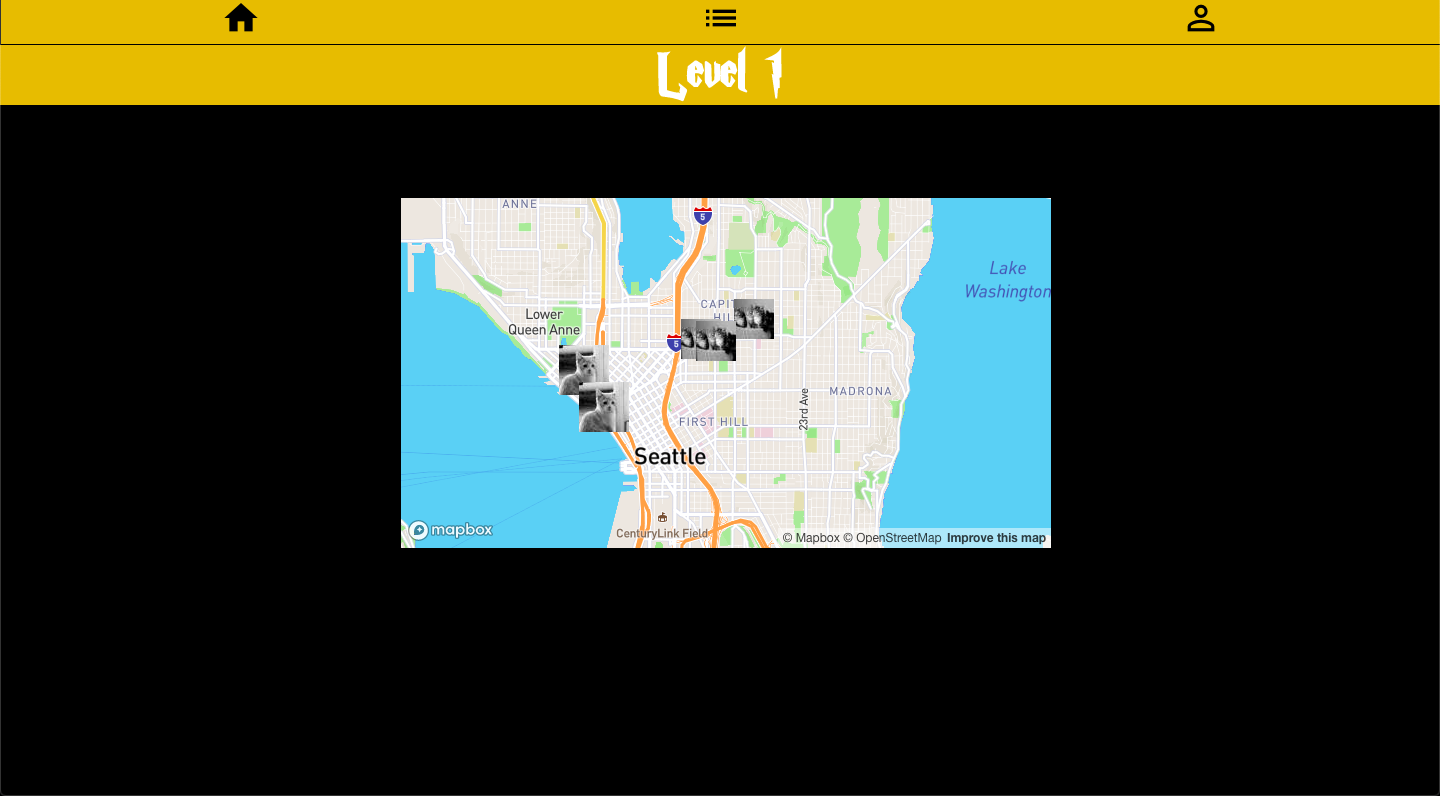
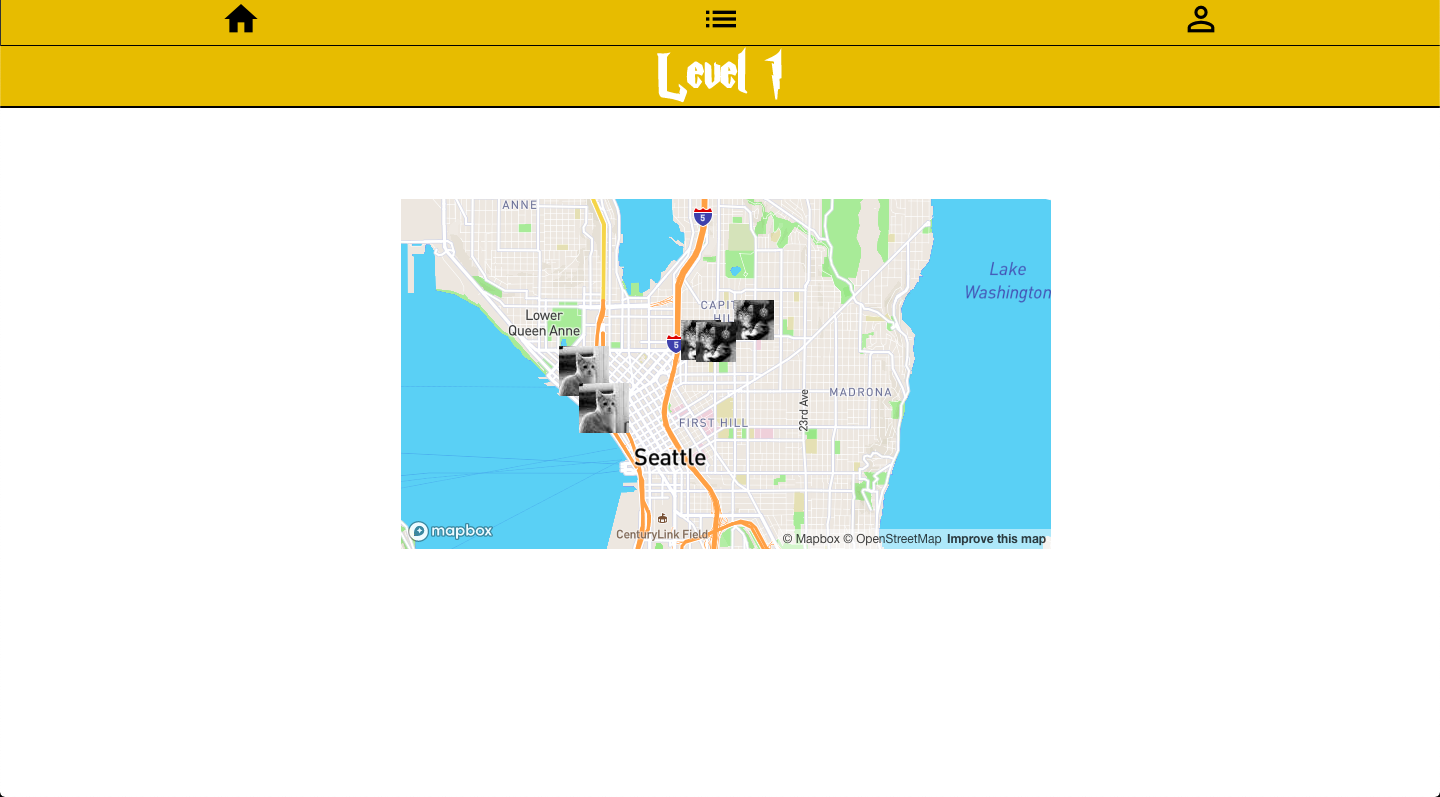
More CSS

diff --git a/src/Projects.js b/src/Projects.js
@@ -26,7 +26,6 @@ export default function Projects() {
               <a href="https://github.com/Brandon205/cubeX" rel="noopener-noreferrer">Code</a>
             </div>
           </div>
-          <p>A MERN app that uses GraphQL and Apollo for all of the database calls and manipulations along with React with hooks for the front end. It is a simple app that will allow users to time themselves while solving a Rubik’s cube, it also has many data-analysis features like averages and a graph, for the user to track their times in more visual ways.</p>
         </>
       );
       break;
@@ -92,24 +91,45 @@ export default function Projects() {
           {project1 ? content1 : <img className="project-img" src={cubeX} alt="cubeX home page" /> }
         </div>
         <div className="project1-description">
-          <p>A MERN app that uses GraphQL and Apollo for all of the database calls and manipulations along with React with hooks for the front end. It is a simple app that will allow users to time themselves while solving a Rubik’s cube, it also has many data-analysis features like averages and a graph, for the user to track their times in more visual ways.</p>
+          <section className="frameworks">
+            <p>React</p>
+            <p>GraphQL</p>
+            <p>Node.js</p>
+            <p>Express</p>
+          </section>
+          <p>A MERN app that uses GraphQL and Apollo for all of the database calls and manipulations along with React with hooks for the front end. It is a simple app that will allow users to time themselves while solving a Rubik’s cube, it also has many data-analysis features like averages and a graph, for the user to track their times in more visual ways.</p><br/>
         </div>
         <div className="project2" onMouseEnter={() => setProject2(true)} onMouseLeave={() => setProject2(false)}>
           {project2 ? content2 : <img className="project-img" src={potterGo} alt="Potter Go home page" /> }
         </div>
         <div className="project2-description">
+          <section className="frameworks">
+            <p>React</p>
+            <p>Node.js</p>
+            <p>Express</p>
+          </section>
           <p>A 1 day hackathon project that was made by me and one other developer, along with a group of 3 UX Designers. It is a simplistic MERN app that uses MapBox to place images at certain locations that the user would have to go to. It also reaches out to an external Harry Potter api to get information, like wands, from the Harry Potter series. Our project placed 1st in the hackathon.</p>
         </div>
         <div className="project3" onMouseEnter={() => setProject3(true)} onMouseLeave={() => setProject3(false)}>
           {project3 ? content3 : <img className="project-img" src={adventureAwaits} alt="Adventure Awaits home page" /> }
         </div>
         <div className="project3-description">
+          <section className="frameworks">
+            <p>React</p>
+            <p>Node.js</p>
+            <p>Express</p>
+          </section>
           <p>A MongoDB, Express, React, Node.js (MERN) app, that was created by a team of developers. Using React for the front end made the website very quick and responsive, while on the backend Node, Express, and MongoDB handle a JWT authentication system along with that will allow for users to have their own secure accounts.</p>
         </div>
         <div className="project4" onMouseEnter={() => setProject4(true)} onMouseLeave={() => setProject4(false)}>
           {project4 ? content4 : (<img className="project-img" src={trailWeather} alt="Trail Weather home page" />) }
         </div>
         <div className="project4-description">
+          <section className="frameworks">
+            <p>EJS</p>
+            <p>Node.js</p>
+            <p>Express</p>
+          </section>
           <p>A full stack web app that is used to help plan your hikes more accordingly with the weather. This app uses HTML, a templating language called EJS, CSS, and Javascript to lay out the foundation along with a database and 3 APIs including Mapbox and the DarkSky API to provide information to the user about any weather or hike information they need.</p>
         </div>
       </main>

diff --git a/src/App.css b/src/App.css
@@ -4,13 +4,23 @@
 }
 
 main {
-  text-align: center;
   background-color: #2F2F2F;
   padding: 15px 0 15px 0;
 }
 
 header {
-  background-color: rgba(75, 75, 75, 0.541);
+  background-image: url(./img/conifer-daylight-evergreen-forest-23381.jpg);
+  height: 100vh;
+  background-size: cover;
+  display: flex;
+  justify-content: center;
+  align-items: center;
+}
+
+header div {
+  width: 100vw;
+  background-color: rgba(128, 128, 128, 0.596);
+  padding: 15px auto;
 }
 
 nav {
@@ -28,6 +38,13 @@ nav a {
 
 nav a:hover {
   color: rgb(49, 49, 49);
+}
+
+hr {
+  background-color: black;
+  width: 75%;
+  height: 2px;
+  margin: 0 auto;
 }
 
 .mobile {
@@ -58,6 +75,10 @@ nav a:hover {
 
 .App {
   text-align: center;
+}
+
+.name {
+  font-size: 3em;
 }
 
 /*                                           PROJECTS CSS                                            */
@@ -101,7 +122,7 @@ nav a:hover {
   grid-area: img4;
 }
 
-.project-container div {
+.project1, .project2, .project3, .project4 {
   display: flex;
   justify-content: space-around;
 }
@@ -135,12 +156,15 @@ nav a:hover {
 .project1-description {
   grid-area: desc1;
 }
+
 .project2-description {
   grid-area: desc2;
 }
+
 .project3-description {
   grid-area: desc3;
 }
+
 .project4-description {
   grid-area: desc4;
 }
@@ -154,6 +178,7 @@ nav a:hover {
   border: 2px solid black;
   border-radius: 10px;
   padding: 2px;
+  margin: 15px auto;
 }
 
 .button:hover {
@@ -166,12 +191,32 @@ nav a:hover {
   font-size: 1.1em;
 }
 
-/*                                           WHOIAM/SKILLS CSS                                      */
+.frameworks {
+  max-height: 50px;
+  margin: 10px auto 15px auto;
+  overflow-wrap: normal;
+}
+
+.frameworks p {
+  margin: 0 5px;
+  display: inline;
+  border: 2px solid black;
+  border-radius: 15px;
+  background-color: tomato;
+  padding: 5px;
+}
+
+.frameworks p:hover {
+  background-color: rgb(204, 77, 55);
+  cursor: pointer;
+}
+
+/*                                           SKILLS CSS                                             */
 .skills {
   text-align: center;
   background-color: rgb(165, 165, 165);
   border-radius: 15px;
-  box-shadow: 5px 7px 10px gray;
+  box-shadow: 0 7px 10px gray;
   width: 85vw;
   margin: 25px auto 15px auto;
 }
@@ -194,27 +239,21 @@ nav a:hover {
   from {
     transform: scale3d(1, 1, 1);
   }
-
   30% {
     transform: scale3d(1.25, 0.75, 1);
   }
-
   40% {
     transform: scale3d(0.75, 1.25, 1);
   }
-
   50% {
     transform: scale3d(1.15, 0.85, 1);
   }
-
   65% {
     transform: scale3d(.95, 1.05, 1);
   }
-
   75% {
     transform: scale3d(1.05, .95, 1);
   }
-
   to {
     transform: scale3d(1, 1, 1);
   }
@@ -225,6 +264,7 @@ nav a:hover {
   animation-name: rubberBand;
 }
 
+/*                                           MEDIA QUERIES CSS                                   */
 @media screen and (min-width: 500px) {
   .project-img {
     width: 65vw;
@@ -239,7 +279,7 @@ nav a:hover {
 
 @media screen and (min-width: 850px) {
   .project-container {
-    grid-template-rows: 200px 1fr 200px 1fr;
+    grid-template-rows: 225px 1.2fr 225px 1.2fr;
     grid-template-columns: 400px 1fr 400px;
     grid-template-areas: "img1 . img2"
                           "desc1 . desc2"

diff --git a/src/App.js b/src/App.js
@@ -26,8 +26,10 @@ export default function App() {
         </div>
       </nav>
       <header>
-        <h1 id="main"> <span className="bouncy">&lt;</span><span className="bouncy">B</span><span className="bouncy">r</span><span className="bouncy">a</span><span className="bouncy">n</span><span className="bouncy">d</span><span className="bouncy">o</span><span className="bouncy">n</span> <span className="bouncy">B</span><span className="bouncy">l</span><span className="bouncy">a</span><span className="bouncy">c</span><span className="bouncy">k</span><span className="bouncy">/</span><span className="bouncy">&gt;</span> </h1>
-        <p>Full Stack Web Developer</p>
+        <div>
+          <h1 className="name" id="main"> <span className="bouncy">&lt;</span><span className="bouncy">B</span><span className="bouncy">r</span><span className="bouncy">a</span><span className="bouncy">n</span><span className="bouncy">d</span><span className="bouncy">o</span><span className="bouncy">n</span> <span className="bouncy">B</span><span className="bouncy">l</span><span className="bouncy">a</span><span className="bouncy">c</span><span className="bouncy">k</span><span className="bouncy">/</span><span className="bouncy">&gt;</span> </h1>
+          <h4>Full Stack Web Developer</h4>
+        </div>
       </header>
       <main>
         <Skills />

diff --git a/src/Skills.js b/src/Skills.js
@@ -4,10 +4,25 @@ export default function Skills() {
   return (
     <div className="skills" id="skills">
       <h1>Skills</h1>
-      <h4>Front End -</h4>
-      <h5>JavaScript, React, TypeScript, HTML5, CSS3 </h5>
-      <h4>Back End -</h4>
-      <h5>Python, SQL, MongoDB, Node.js, Express, GraphQL</h5>
+      <hr />
+      <h3>Front End -</h3>
+      <div>
+        <p>JavaScript</p>
+        <p>React</p>
+        <p>Apollo</p>
+        <p>TypeScript</p>
+        <p>HTML5</p>
+        <p>CSS3</p>
+      </div>
+      <h3>Back End -</h3>
+      <div>
+        <p>Python</p>
+        <p>SQL</p>
+        <p>MongoDB</p>
+        <p>Node</p>
+        <p>Express</p>
+        <p>GraphQL</p>
+      </div>
     </div>
   )
 }
